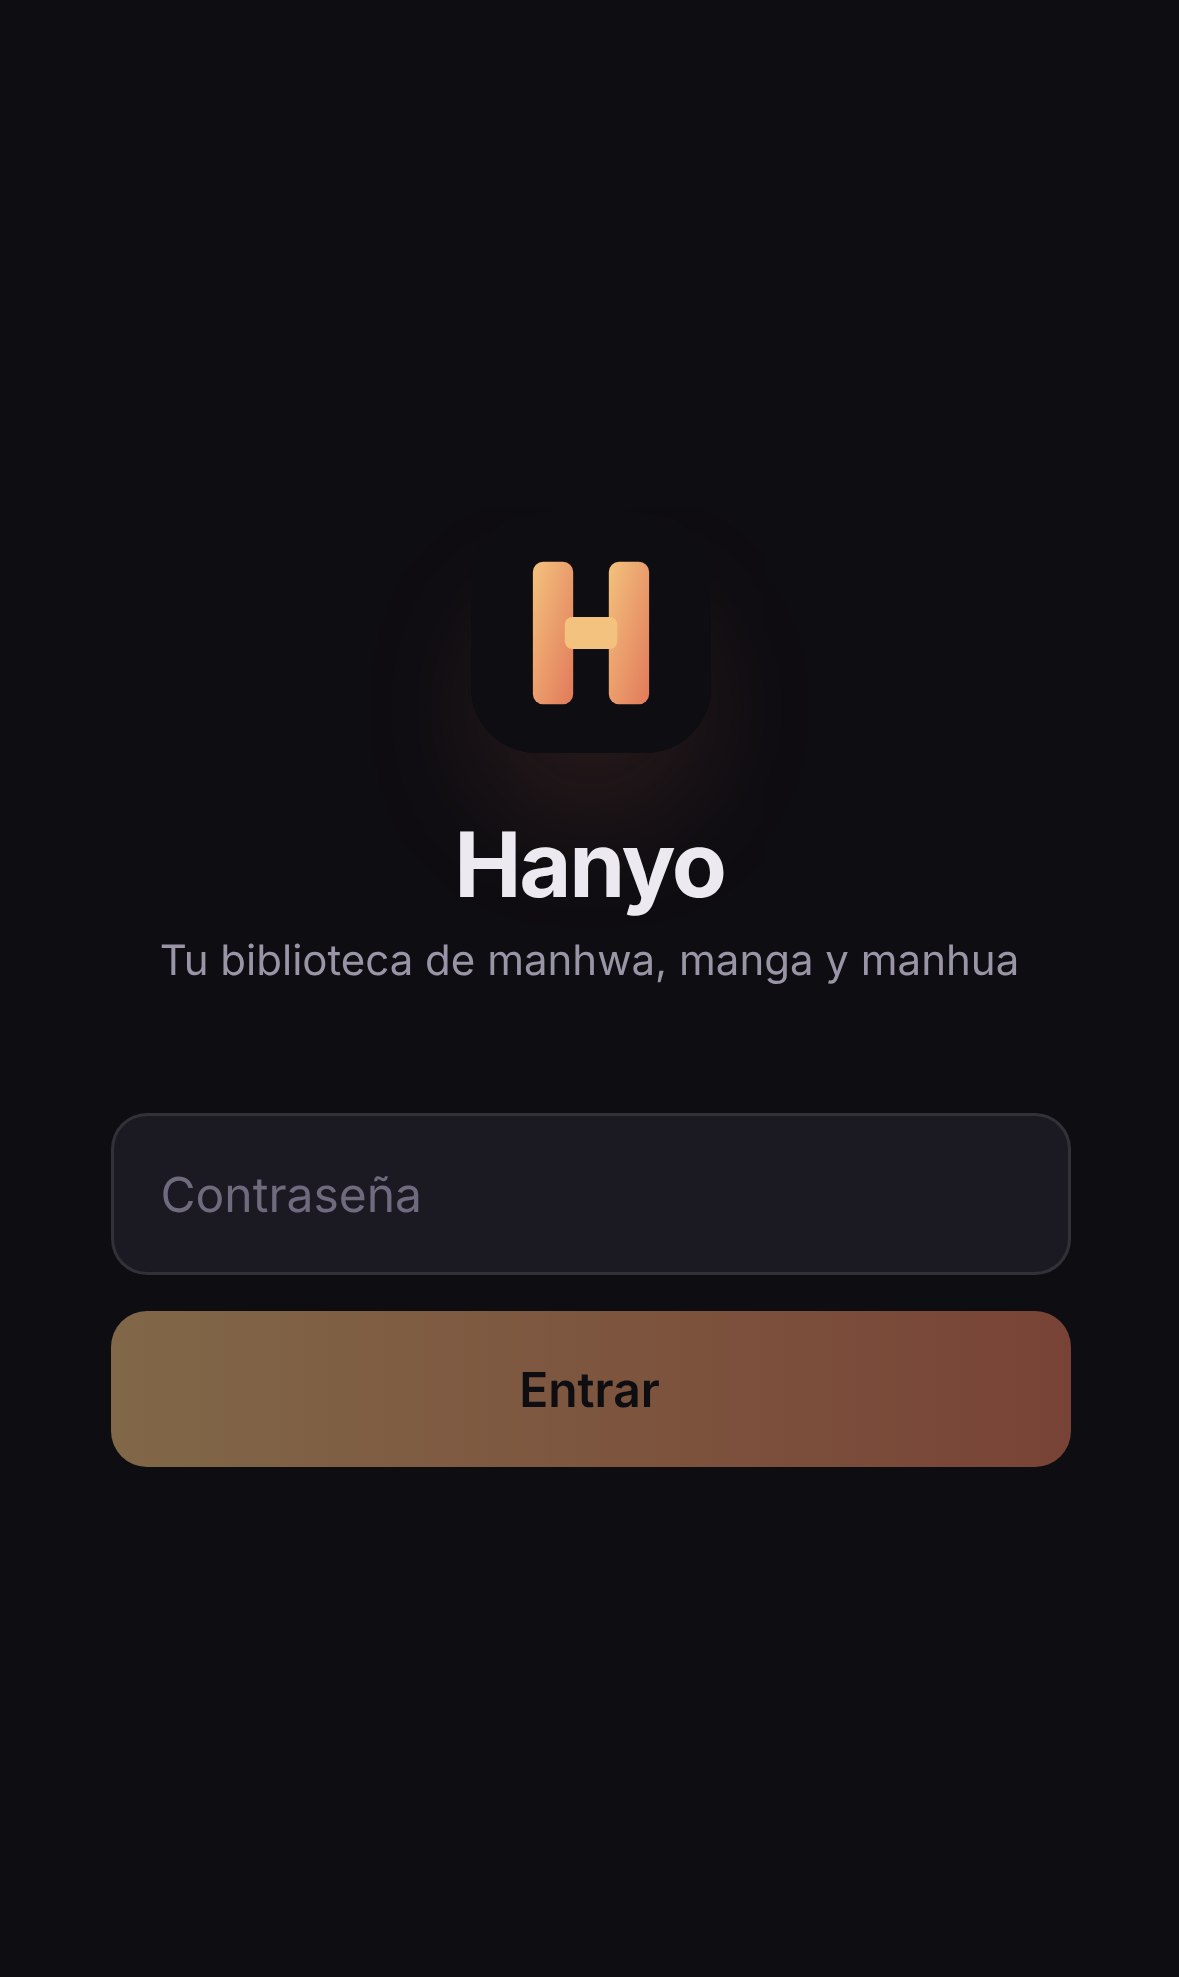
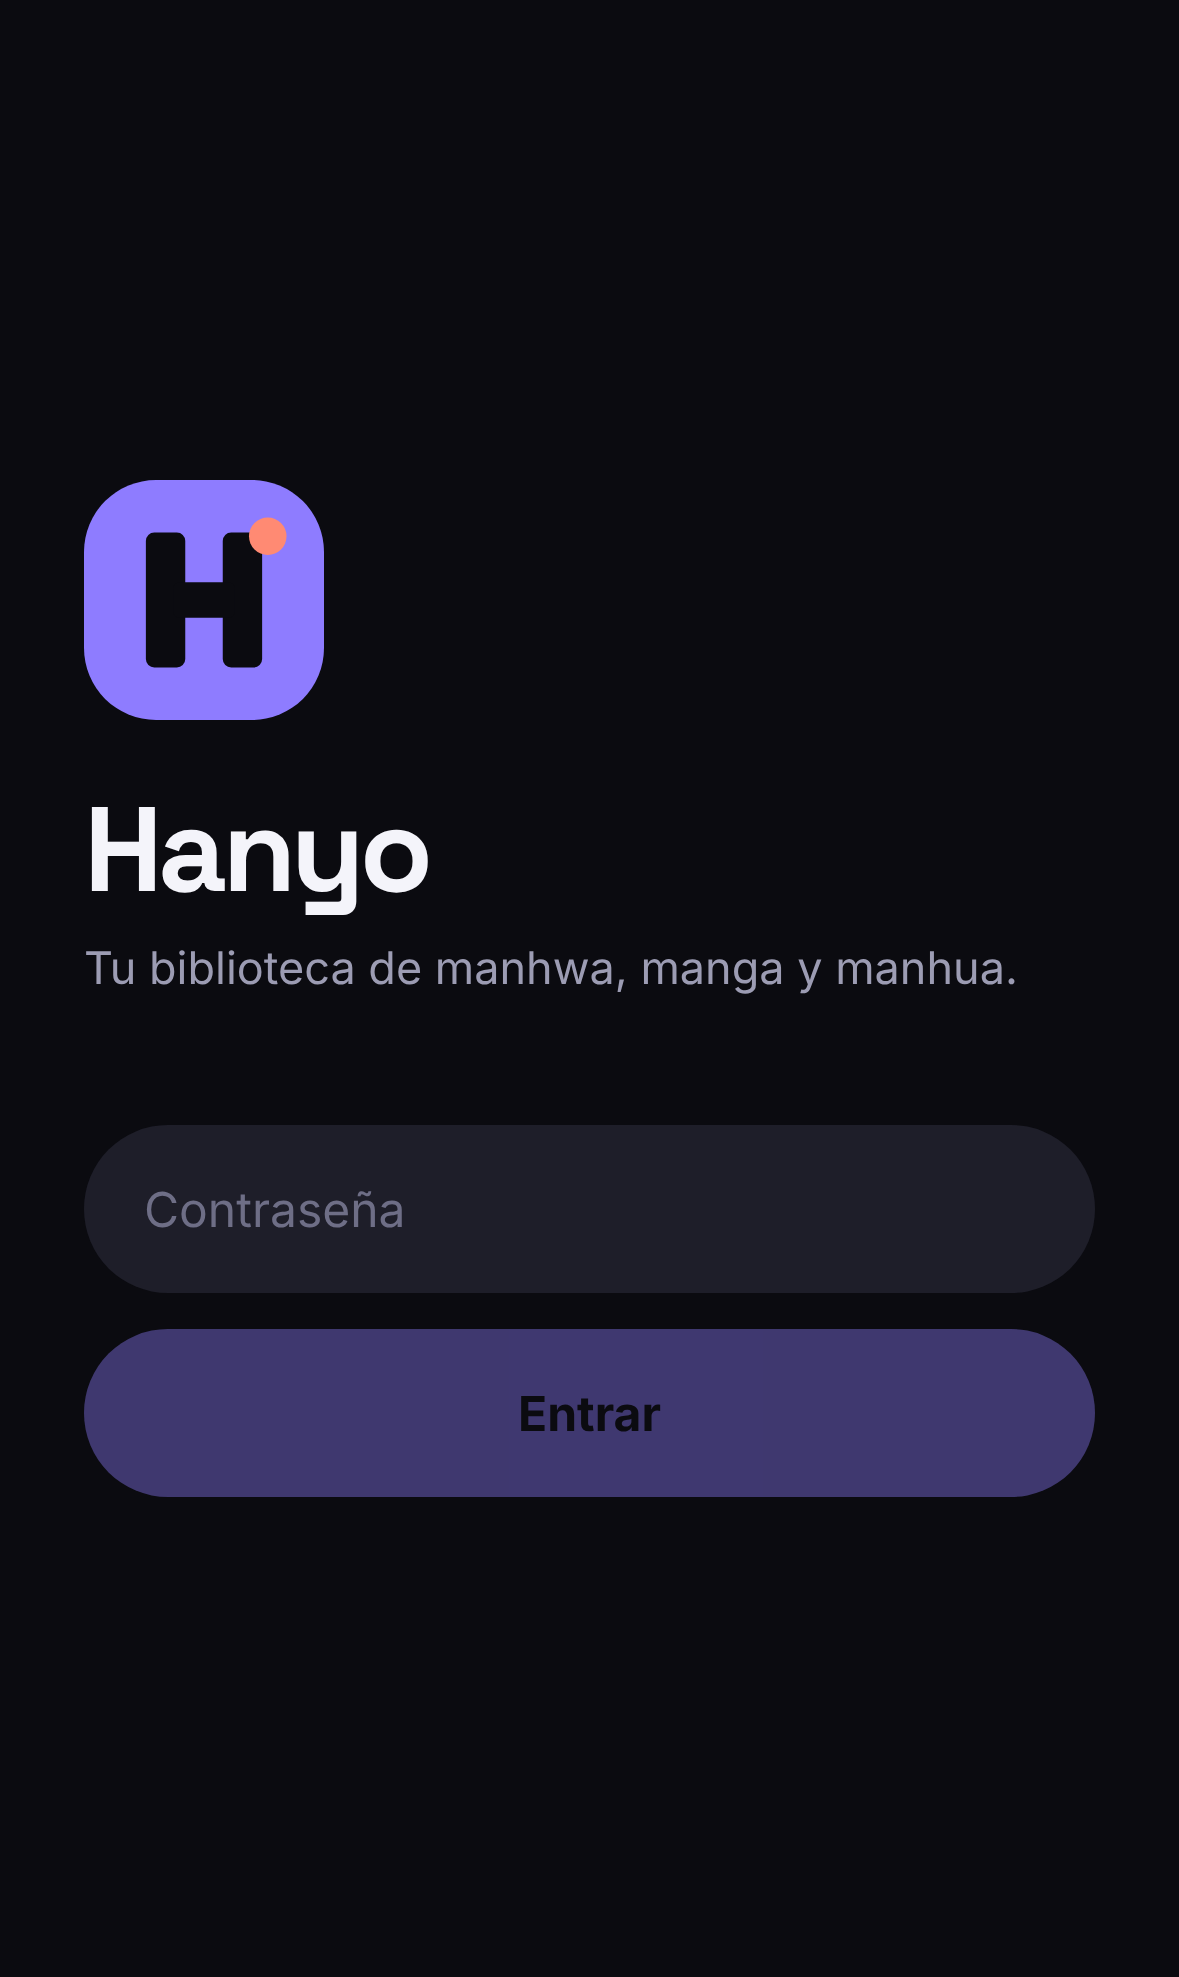
docs: Pulso design decision and refreshed screenshots
ADR-009, status and backlog updates, and the iPhone screenshots retaken with
the new UI (including reader settings and the end-of-chapter card).

Claude-Session: https://claude.ai/code/session_01CtADmTdDMGyJS9noQdp5vz

diff --git a/docs/decisions.md b/docs/decisions.md
@@ -41,3 +41,11 @@ chapters: ~80% smaller (Eleceed ch. 94: 7.3 MB vs ~38 MB) with no visible differ
 (`docs/screenshots/11-calidad-webp.png`). Re-encoding costs ~1.5 s per long strip, so online reading never
 waits for it (original served, compact version built in the background); downloads (`?compact=1`) and
 server prefetch wait for it. The original is kept if re-encoding doesn't make it smaller.
+
+## ADR-009: "Pulso" visual design
+Chosen by the owner between two directions mocked on a design canvas (A "Hanji": editorial, warm,
+serif; B "Pulso": vivid, cover-forward). Pulso: cool black base, electric violet accent (#8E7CFF) for
+actions and selection, coral (#FF8A73) only for "new", mint for done; Space Grotesk display over Inter,
+both self-hosted (@fontsource) so they work offline. Colours are role-named tokens in `app.css`
+(`base`, `surface`, `raised`, `accent`, `fresh`…), so the palette changes in one place. Floating pill
+navigation and reader bars; covers fall back to the title set big on a solid block.

diff --git a/docs/status.md b/docs/status.md
@@ -10,6 +10,8 @@ _Last updated: 2026-11-09_
   locally. Extension install could not be exercised in the dev sandbox → first real test happens on the VPS.
 - **PWA**: library, unified search, series page, vertical + paged reader, downloads (persistent queue),
   offline mode (verified in airplane mode with Playwright), settings, push subscription, icons/manifest.
+- **UI**: "Pulso" design applied to every screen (ADR-009); search merges and ranks results across sources
+  using AniList names and popularity.
 - **Compact pages**: downloads are re-encoded to WebP/mozjpeg q90 on the server (~80% smaller, 12 API tests).
 - **Deploy**: `deploy/setup.sh` (one-shot), `deploy/deploy.sh` (CI), Docker compose for Suwayomi + FlareSolverr,
   Caddy site via `import`, GitHub Actions CI + deploy (gated by `DEPLOY_ENABLED`).

diff --git a/README.md b/README.md
@@ -6,8 +6,8 @@ biblioteca, recibe avisos de capítulos nuevos y descárgalos para leerlos sin c
 <p>
   <img src="docs/screenshots/02-biblioteca.png" width="190" />
   <img src="docs/screenshots/04-serie.png" width="190" />
-  <img src="docs/screenshots/05b-lector-scroll.png" width="190" />
-  <img src="docs/screenshots/07-descargas.png" width="190" />
+  <img src="docs/screenshots/05-lector.png" width="190" />
+  <img src="docs/screenshots/05c-lector-fin.png" width="190" />
 </p>
 
 - **App**: PWA (SvelteKit) que se instala desde Safari → «Añadir a pantalla de inicio».

diff --git a/docs/backlog.md b/docs/backlog.md
@@ -15,6 +15,9 @@
 - [ ] Store page dimensions server-side so strip placeholders have exact size before load
 - [ ] Resume within a tall page (store intra-page fraction, not just page index)
 
+- [ ] Series covers in the reader's "next chapter" card (needs cover in the page list response)
+- [ ] Light theme variant of Pulso
+
 ## Tech
 - [ ] Silence `state_referenced_locally` warnings in reader components (untrack)
 - [ ] E2E Playwright suite in CI using a fake provider
